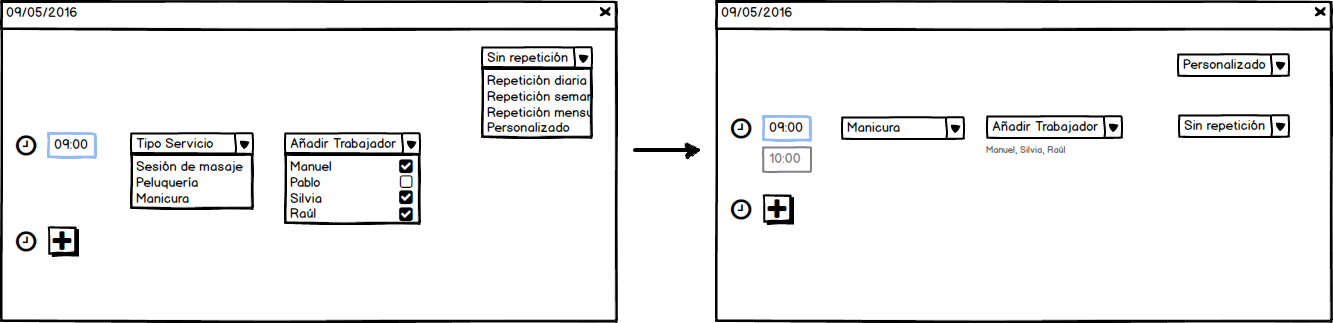
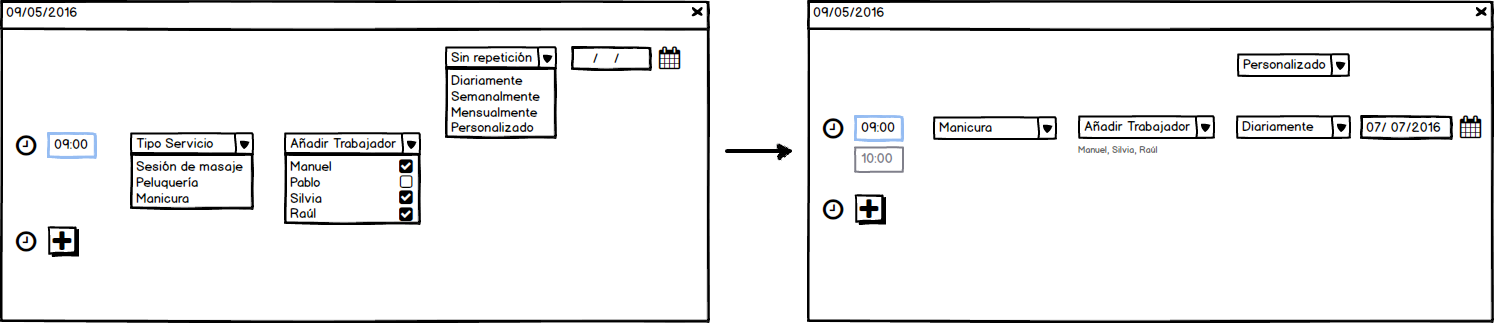
Add repetition limit date

diff --git a/src/test/java/busy/company/web/BranchPage.java b/src/test/java/busy/company/web/BranchPage.java
@@ -7,6 +7,9 @@ import java.util.List;
 
 import org.fluentlenium.core.domain.FluentWebElement;
 import org.fluentlenium.core.filter.FilterConstructor;
+import org.joda.time.DateTime;
+import org.joda.time.format.DateTimeFormat;
+import org.joda.time.format.DateTimeFormatter;
 import org.openqa.selenium.By;
 import org.openqa.selenium.NoSuchElementException;
 import org.openqa.selenium.support.ui.Select;
@@ -64,7 +67,8 @@ public class BranchPage extends BusyPage {
     private static final String SERVICE_FORM_START_TIME = "#start-time";
     private static final String SERVICE_FORM_ROLES = "#service-roles";
     private static final String SERVICE_FORM_STYPE = "#service-type";
-    private static final String SERVICE_FORM_REPETITION = "#service-repetition";
+    private static final String SERVICE_FORM_REPETITION_TYPE = "#service-repetition-type";
+    private static final String SERVICE_FORM_REPETITION_DATE = "#service-repetition-date";
 
     private static final String MESSAGE_SELECTOR = "#infoMessage";
     private static final String ERROR_SELECTOR = "span.error";
@@ -245,10 +249,18 @@ public class BranchPage extends BusyPage {
         if (repetition != null) {
             String repetitionLabel =
                     messageSource.getMessage(repetition.getMsgCode(), null, LocaleContextHolder.getLocale()).trim();
-            Select select = new Select(getDriver().findElement(By.cssSelector(SERVICE_FORM_REPETITION)));
+            Select select = new Select(getDriver().findElement(By.cssSelector(SERVICE_FORM_REPETITION_TYPE)));
             select.selectByVisibleText(repetitionLabel);
         }
 
+        return this;
+    }
+    
+    public BranchPage setRepetitionDate(int days, MessageSource messageSource) {
+
+        DateTime date = new DateTime().plusDays(days);
+        DateTimeFormatter dtfOut = DateTimeFormat.forPattern("dd-MM-yyyy");
+        fill(SERVICE_FORM_REPETITION_DATE).with(dtfOut.print(date));
         return this;
     }
 

diff --git a/src/test/java/busy/bdd/company/create_services/CreateServicesSteps.java b/src/test/java/busy/bdd/company/create_services/CreateServicesSteps.java
@@ -115,10 +115,17 @@ public class CreateServicesSteps extends AbstractFunctionalTest {
         branchPage.selectServiceRoles(roles);
     }
 
-    @When("^I select the repetition \"([^\"]*)\"$")
-    public void select_repetition(String repetition) throws Throwable {
+    @When("^I select the repetition type \"([^\"]*)\"$")
+    public void select_repetition_type(String repetition) throws Throwable {
 
         branchPage.selectRepetition(repetition, messageSource);
+    }
+    
+    @When("^I introduce the repetition date until \"([^\"]*)\" days after$")
+    public void select_repetition_days(String daysTmp) throws Throwable {
+
+        int days = Integer.parseInt(daysTmp);
+        branchPage.setRepetitionDate(days, messageSource);
     }
 
     @When("^I click on 'Save'$")
